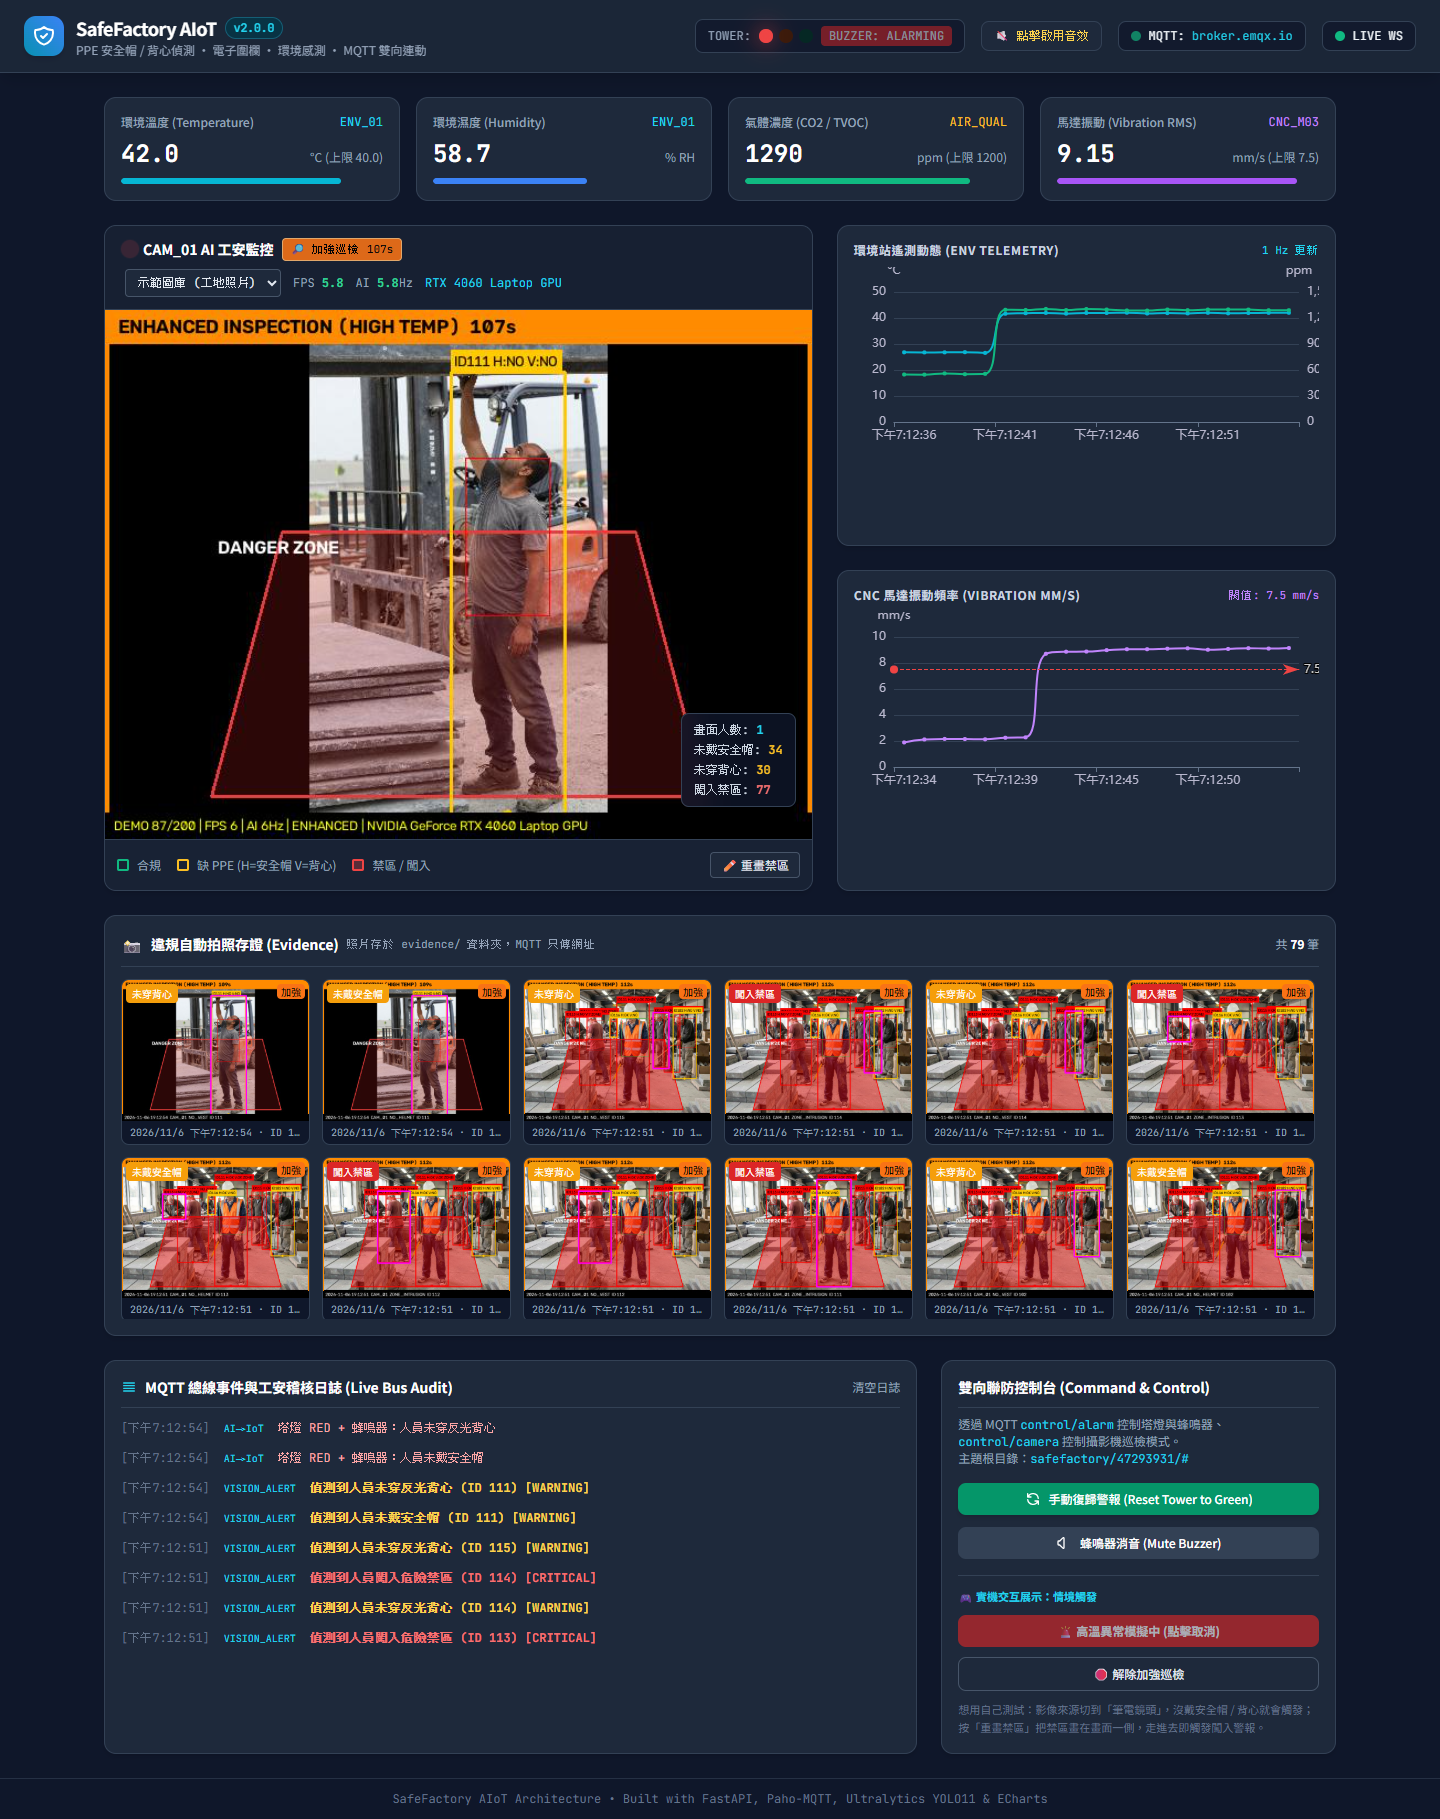
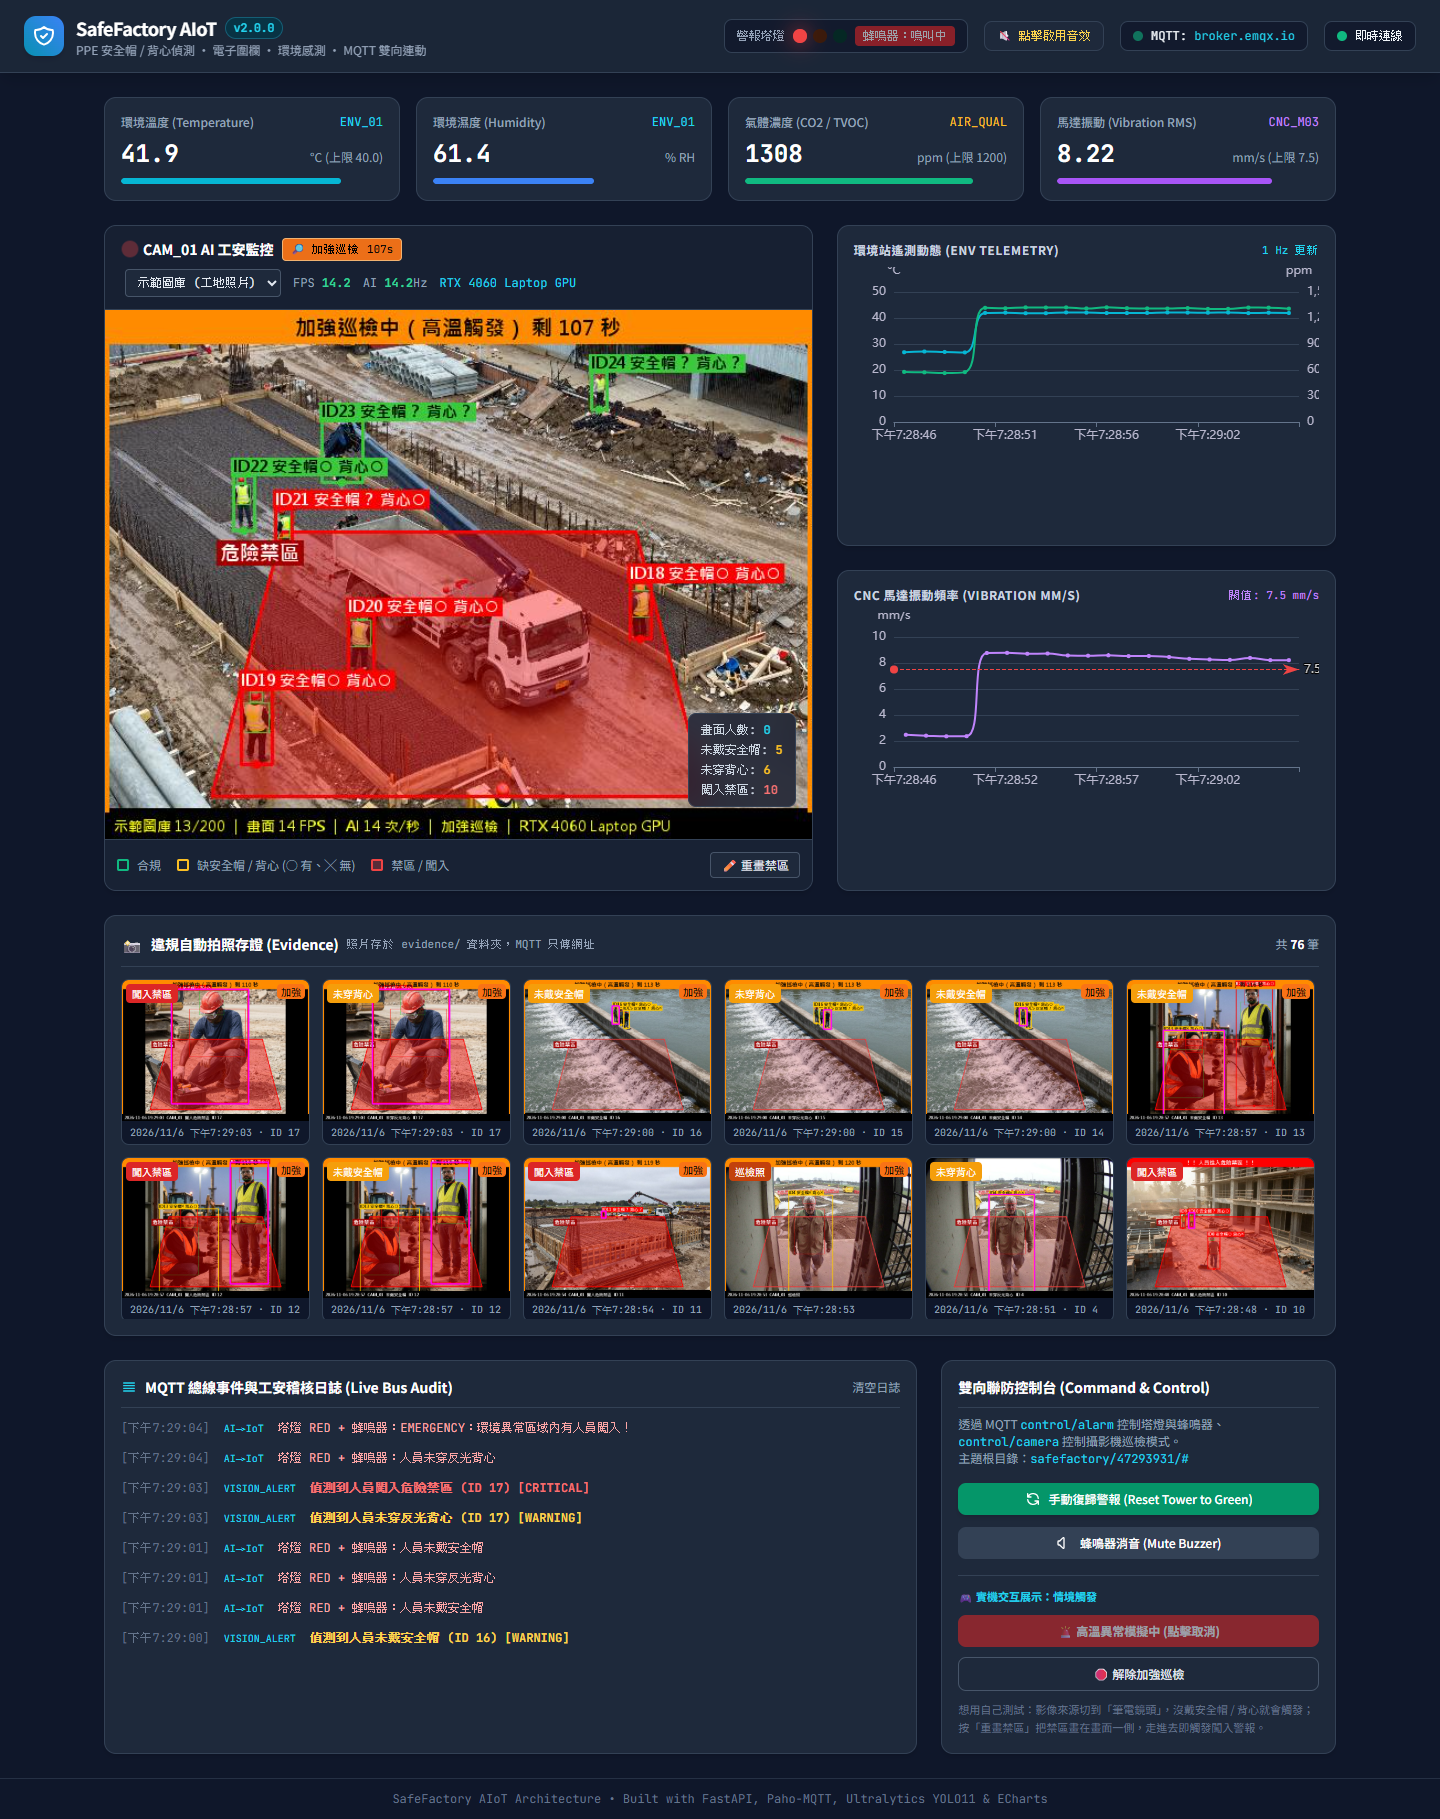
影像標籤與儀表板改為中文
- 新增 backend/text_render.py：用 Pillow + 微軟正黑體繪製中文 (OpenCV 不支援中文)
- 人員標籤改為「安全帽○ 背心╳」，橫幅、禁區、狀態列、存證浮水印全部中文化
- 紅底標籤改白字，並移除重複的「禁區」字樣，人多時較不重疊
- 讀寫圖片改用 numpy + imdecode / tofile，路徑含中文也能正常運作
- 儀表板頂部狀態列中文化，README 範例圖片更新為中文標籤版本

diff --git a/frontend/index.html b/frontend/index.html
@@ -80,14 +80,14 @@
         <div class="flex items-center space-x-4 mt-2 sm:mt-0">
             <!-- 實體警報塔燈 (3 色模擬) -->
             <div class="flex items-center bg-slate-900/80 px-3 py-1.5 rounded-lg border border-borderBg space-x-2">
-                <span class="text-xs text-slate-400 font-mono">TOWER:</span>
+                <span class="text-xs text-slate-400 font-mono">警報塔燈</span>
                 <div class="flex space-x-1.5 items-center">
                     <div id="tower-red" class="w-3.5 h-3.5 rounded-full bg-red-950/80 transition-all duration-300"></div>
                     <div id="tower-yellow" class="w-3.5 h-3.5 rounded-full bg-amber-950/80 transition-all duration-300"></div>
                     <div id="tower-green" class="w-3.5 h-3.5 rounded-full tower-green-active transition-all duration-300"></div>
                 </div>
                 <div id="buzzer-tag" class="text-xs px-2 py-0.5 rounded bg-slate-800 text-slate-400 font-mono">
-                    BUZZER: OFF
+                    蜂鳴器：關閉
                 </div>
             </div>
 
@@ -106,7 +106,7 @@
             <!-- WebSocket 即時連線 -->
             <div class="flex items-center space-x-2 px-3 py-1.5 bg-slate-900/80 rounded-lg border border-borderBg text-xs font-mono">
                 <div id="ws-dot" class="w-2.5 h-2.5 rounded-full bg-emerald-500"></div>
-                <span id="ws-status">LIVE WS</span>
+                <span id="ws-status">即時連線</span>
             </div>
         </div>
     </header>
@@ -224,7 +224,7 @@
                 <div class="p-3 bg-slate-900/40 border-t border-borderBg flex flex-wrap items-center justify-between gap-3 text-xs">
                     <div class="text-slate-400 flex flex-wrap items-center gap-2">
                         <span class="inline-block w-3 h-3 border-2 border-emerald-500 rounded-sm"></span><span>合規</span>
-                        <span class="inline-block w-3 h-3 border-2 border-amber-400 rounded-sm ml-2"></span><span>缺 PPE (H=安全帽 V=背心)</span>
+                        <span class="inline-block w-3 h-3 border-2 border-amber-400 rounded-sm ml-2"></span><span>缺安全帽 / 背心 (○ 有、╳ 無)</span>
                         <span class="inline-block w-3 h-3 bg-red-500/30 border-2 border-red-500 rounded-sm ml-2"></span><span>禁區 / 闖入</span>
                     </div>
                     <div id="zone-controls" class="flex items-center gap-2">
@@ -511,13 +511,13 @@
 
             ws.onopen = () => {
                 document.getElementById('ws-dot').className = 'w-2.5 h-2.5 rounded-full bg-emerald-500';
-                document.getElementById('ws-status').innerText = 'LIVE WS';
+                document.getElementById('ws-status').innerText = '即時連線';
                 addLog('SYSTEM', '系統與後端 WebSocket 握手成功');
             };
 
             ws.onclose = () => {
                 document.getElementById('ws-dot').className = 'w-2.5 h-2.5 rounded-full bg-red-500';
-                document.getElementById('ws-status').innerText = 'WS RECONNECTING';
+                document.getElementById('ws-status').innerText = '重新連線中';
                 setTimeout(connectWS, 2000);
             };
 
@@ -761,11 +761,11 @@
 
             if (buzzer) {
                 b.className = 'text-xs px-2 py-0.5 rounded bg-red-600 text-white font-mono animate-pulse';
-                b.innerText = 'BUZZER: ALARMING';
+                b.innerText = '蜂鳴器：鳴叫中';
                 startBuzzerAudio();
             } else {
                 b.className = 'text-xs px-2 py-0.5 rounded bg-slate-800 text-slate-400 font-mono';
-                b.innerText = 'BUZZER: OFF';
+                b.innerText = '蜂鳴器：關閉';
                 stopBuzzerAudio();
             }
         }

diff --git a/backend/vision_worker.py b/backend/vision_worker.py
@@ -28,6 +28,7 @@ import torch
 from ultralytics import YOLO
 from ultralytics.utils import SETTINGS
 
+from backend.text_render import TextLayer
 from backend.config import (
     ROOT_DIR,
     PERSON_MODEL,
@@ -60,6 +61,9 @@ EVENT_TEXT = {
     "ZONE_INTRUSION": ("CRITICAL", "偵測到人員闖入危險禁區"),
     "PATROL_SNAPSHOT": ("INFO", "加強巡檢自動拍照"),
 }
+EVENT_SHORT = {"NO_HELMET": "未戴安全帽", "NO_VEST": "未穿反光背心",
+               "ZONE_INTRUSION": "闖入危險禁區", "PATROL_SNAPSHOT": "巡檢照"}
+MARK = {"ok": "○", "missing": "╳", "unknown": "？"}  # 微軟正黑體沒有 ✓✗，用 ○╳ 表示有/無
 
 GREEN, YELLOW, RED, ORANGE, WHITE = (60, 200, 60), (0, 200, 255), (0, 0, 255), (0, 140, 255), (255, 255, 255)
 
@@ -73,6 +77,12 @@ def letterbox(frame: np.ndarray, w: int = VIDEO_WIDTH, h: int = VIDEO_HEIGHT) ->
     x, y = (w - nw) // 2, (h - nh) // 2
     out[y:y + nh, x:x + nw] = cv2.resize(frame, (nw, nh))
     return out
+
+
+def imread_unicode(path):
+    """cv2.imread 在 Windows 讀不到含中文的路徑，改用 numpy 讀檔再解碼。"""
+    data = np.fromfile(str(path), dtype=np.uint8)
+    return cv2.imdecode(data, cv2.IMREAD_COLOR) if data.size else None
 
 
 def demo_image_dir() -> Path:
@@ -117,8 +127,10 @@ class FrameSource:
     @property
     def label(self) -> str:
         if self.spec == "demo":
-            return f"DEMO {self.img_idx + 1}/{len(self.images)}"
-        return self.spec.upper()
+            return f"示範圖庫 {self.img_idx + 1}/{len(self.images)}"
+        if self.spec == "webcam":
+            return "筆電鏡頭"
+        return f"影片 {self.spec[5:]}"
 
     def read(self):
         if self.images:
@@ -126,7 +138,7 @@ class FrameSource:
             if self.current_img is None or now - self.img_since >= DEMO_IMAGE_SECONDS:
                 if self.current_img is not None:
                     self.img_idx = (self.img_idx + 1) % len(self.images)
-                img = cv2.imread(str(self.images[self.img_idx]))
+                img = imread_unicode(self.images[self.img_idx])
                 self.current_img = letterbox(img) if img is not None else None
                 self.img_since = now
             return None if self.current_img is None else self.current_img.copy()
@@ -345,6 +357,7 @@ class VisionWorker:
     # ---------------------------------------------------------
     def _draw(self, frame, people, ppe, source_label, now):
         out = frame.copy()
+        text = TextLayer()
         zone = self.zone_px()
         danger = any(p["in_zone"] for p in people)
 
@@ -353,7 +366,7 @@ class VisionWorker:
         cv2.addWeighted(overlay, 0.40 if danger else 0.22, out, 0.60 if danger else 0.78, 0, out)
         cv2.polylines(out, [zone], True, RED if danger else (60, 60, 230), 2)
         zx, zy = zone[:, 0].min(), zone[:, 1].min()
-        cv2.putText(out, "DANGER ZONE", (int(zx) + 6, int(zy) + 20), cv2.FONT_HERSHEY_SIMPLEX, 0.55, WHITE, 2)
+        text.add("危險禁區", (int(zx) + 8, int(zy) + 6), WHITE, 18, bg=(0, 0, 160))
 
         for name, _, _, (x1, y1, x2, y2) in ppe:
             if name in ("helmet", "vest", "no_helmet", "no_vest"):
@@ -366,31 +379,28 @@ class VisionWorker:
             color = RED if p["in_zone"] else (YELLOW if bad else GREEN)
             cv2.rectangle(out, (x1, y1), (x2, y2), color, 2)
             cv2.circle(out, p["foot"], 4, color, -1)
-            tag = {"ok": "OK", "missing": "NO", "unknown": "?"}
-            label = f"ID{p['tid']}" if p["tid"] >= 0 else "new"
+            label = f"ID{p['tid']}" if p["tid"] >= 0 else "新目標"
             if self.ppe_model is not None:
-                label += f" H:{tag[p['helmet']]} V:{tag[p['vest']]}"
-            if p["in_zone"]:
-                label += " ZONE!"
-            (tw, th), _ = cv2.getTextSize(label, cv2.FONT_HERSHEY_SIMPLEX, 0.45, 1)
-            cv2.rectangle(out, (x1, max(y1 - th - 8, 0)), (x1 + tw + 6, max(y1, th + 8)), color, -1)
-            cv2.putText(out, label, (x1 + 3, max(y1 - 5, th + 3)), cv2.FONT_HERSHEY_SIMPLEX, 0.45, (0, 0, 0), 1)
+                label += f" 安全帽{MARK[p['helmet']]} 背心{MARK[p['vest']]}"
+            # 紅框本身就代表在禁區內，標籤不再重複，保持精簡避免人多時互相重疊
+            fg = WHITE if p["in_zone"] else (0, 0, 0)  # 紅底配白字、黃/綠底配黑字
+            text.add(label, (x1, max(y1 - 2, 18)), fg, 14, bg=color, pad=2, anchor="lb")
 
         # 加強巡檢：橘色外框 + 倒數
         if self.mode == "enhanced":
             cv2.rectangle(out, (0, 0), (VIDEO_WIDTH - 1, VIDEO_HEIGHT - 1), ORANGE, 6)
             remain = max(0, int(self.enhanced_until - now))
             cv2.rectangle(out, (0, 0), (VIDEO_WIDTH, 30), ORANGE, -1)
-            cv2.putText(out, f"ENHANCED INSPECTION (HIGH TEMP)  {remain}s", (12, 21),
-                        cv2.FONT_HERSHEY_SIMPLEX, 0.6, (0, 0, 0), 2)
+            text.add(f"加強巡檢中（高溫觸發） 剩 {remain} 秒", (VIDEO_WIDTH // 2, 15), (0, 0, 0), 19, anchor="mm")
         elif danger:
             cv2.rectangle(out, (0, 0), (VIDEO_WIDTH, 30), RED, -1)
-            cv2.putText(out, "!!! WORKER IN DANGER ZONE !!!", (150, 21), cv2.FONT_HERSHEY_SIMPLEX, 0.6, WHITE, 2)
+            text.add("！！ 人員進入危險禁區 ！！", (VIDEO_WIDTH // 2, 15), WHITE, 19, anchor="mm")
 
-        hud = f"{source_label} | FPS {self.fps:.0f} | AI {self.infer_fps:.0f}Hz | {self.mode.upper()} | {self.device_name}"
+        mode = "加強巡檢" if self.mode == "enhanced" else "一般巡檢"
+        hud = f"{source_label} ｜ 畫面 {self.fps:.0f} FPS ｜ AI {self.infer_fps:.0f} 次/秒 ｜ {mode} ｜ {self.device_name.replace('NVIDIA GeForce ', '')}"
         cv2.rectangle(out, (0, VIDEO_HEIGHT - 24), (VIDEO_WIDTH, VIDEO_HEIGHT), (0, 0, 0), -1)
-        cv2.putText(out, hud, (8, VIDEO_HEIGHT - 8), cv2.FONT_HERSHEY_SIMPLEX, 0.42, (0, 255, 255), 1)
-        return out, danger
+        text.add(hud, (8, VIDEO_HEIGHT - 12), (0, 255, 255), 13, anchor="lm")
+        return text.render(out), danger
 
     # ---------------------------------------------------------
     # 存證與事件
@@ -420,10 +430,14 @@ class VisionWorker:
             x1, y1, x2, y2 = person["box"]
             cv2.rectangle(img, (x1 - 3, y1 - 3), (x2 + 3, y2 + 3), (255, 0, 255), 3)
         # 底部 HUD 列換成存證浮水印 (黑底白字，不和畫面其他文字重疊)
-        stamp = now.strftime("%Y-%m-%d %H:%M:%S") + f"  CAM_01  {event}" + (f"  ID {tid}" if tid is not None else "")
+        stamp = now.strftime("%Y-%m-%d %H:%M:%S") + f"  CAM_01  {EVENT_SHORT[event]}" + (f"  ID {tid}" if tid is not None else "")
         cv2.rectangle(img, (0, VIDEO_HEIGHT - 24), (VIDEO_WIDTH, VIDEO_HEIGHT), (0, 0, 0), -1)
-        cv2.putText(img, stamp, (8, VIDEO_HEIGHT - 7), cv2.FONT_HERSHEY_SIMPLEX, 0.5, WHITE, 1, cv2.LINE_AA)
-        cv2.imwrite(str(folder / name), img, [cv2.IMWRITE_JPEG_QUALITY, 88])
+        layer = TextLayer()
+        layer.add(stamp, (8, VIDEO_HEIGHT - 12), WHITE, 14, anchor="lm")
+        img = layer.render(img)
+        ok, buf = cv2.imencode(".jpg", img, [cv2.IMWRITE_JPEG_QUALITY, 88])
+        if ok:
+            buf.tofile(str(folder / name))  # 用 tofile 寫檔，路徑含中文也沒問題
 
         severity, message = EVENT_TEXT[event]
         record = {
@@ -467,10 +481,11 @@ class VisionWorker:
 
     def _no_signal(self):
         img = np.zeros((VIDEO_HEIGHT, VIDEO_WIDTH, 3), np.uint8)
-        cv2.putText(img, "NO SIGNAL", (215, 230), cv2.FONT_HERSHEY_SIMPLEX, 1.2, (80, 80, 255), 3)
-        cv2.putText(img, self.source_error[:70].encode("ascii", "ignore").decode(), (20, 280),
-                    cv2.FONT_HERSHEY_SIMPLEX, 0.45, (200, 200, 200), 1)
-        return img
+        layer = TextLayer()
+        layer.add("無影像訊號", (VIDEO_WIDTH // 2, 220), (80, 80, 255), 36, anchor="mm")
+        layer.add(self.source_error[:45], (VIDEO_WIDTH // 2, 275), (200, 200, 200), 15, anchor="mm")
+        layer.add("請在右上角切換影像來源", (VIDEO_WIDTH // 2, 305), (200, 200, 200), 15, anchor="mm")
+        return layer.render(img)
 
     def run_inference(self):
         src = self._open_source(self.source_spec)

diff --git a/backend/text_render.py b/backend/text_render.py
@@ -1,0 +1,61 @@
+"""
+中文文字繪製 (Chinese Text Renderer)
+
+OpenCV 的 cv2.putText 只支援英文字，中文會變成問號。
+這裡改用 Pillow + 系統中文字型繪製：每一幀先把要寫的字收集起來，
+最後一次轉成 Pillow 影像畫完再轉回 OpenCV，避免反覆轉換拖慢速度。
+"""
+
+import os
+from functools import lru_cache
+
+import numpy as np
+from PIL import Image, ImageDraw, ImageFont
+
+# 依序嘗試：Windows 微軟正黑體 → macOS 蘋方 → Linux Noto CJK
+FONT_CANDIDATES = [
+    r"C:\Windows\Fonts\msjhbd.ttc",
+    r"C:\Windows\Fonts\msjh.ttc",
+    "/System/Library/Fonts/PingFang.ttc",
+    "/usr/share/fonts/opentype/noto/NotoSansCJK-Bold.ttc",
+    "/usr/share/fonts/opentype/noto/NotoSansCJK-Regular.ttc",
+]
+
+
+@lru_cache(maxsize=16)
+def get_font(size: int):
+    for path in FONT_CANDIDATES:
+        if os.path.exists(path):
+            return ImageFont.truetype(path, size)
+    return ImageFont.load_default(size)  # 找不到中文字型時退回預設字型 (中文會顯示不出來)
+
+
+def bgr2rgb(c):
+    return (c[2], c[1], c[0])
+
+
+class TextLayer:
+    """收集一幀要寫的文字，最後 render() 一次畫上去。"""
+
+    def __init__(self):
+        self.items = []
+
+    def add(self, text, xy, color=(255, 255, 255), size=16, bg=None, pad=3, anchor="la"):
+        """
+        xy：文字位置；anchor 用 Pillow 規則 (la=左上、lb=左下、mm=置中)
+        bg：背景色 (BGR)，有給就會先畫一塊底色，讓字在任何畫面上都清楚
+        """
+        self.items.append((text, xy, color, size, bg, pad, anchor))
+
+    def render(self, img: np.ndarray) -> np.ndarray:
+        if not self.items:
+            return img
+        pil = Image.fromarray(img[:, :, ::-1])
+        draw = ImageDraw.Draw(pil)
+        for text, (x, y), color, size, bg, pad, anchor in self.items:
+            font = get_font(size)
+            if bg is not None:
+                l, t, r, b = draw.textbbox((x, y), text, font=font, anchor=anchor)
+                draw.rectangle((l - pad, t - pad, r + pad, b + pad), fill=bgr2rgb(bg))
+            draw.text((x, y), text, font=font, fill=bgr2rgb(color), anchor=anchor)
+        return np.asarray(pil)[:, :, ::-1].copy()

diff --git a/README.md b/README.md
@@ -26,9 +26,11 @@
 | 未戴安全帽 | 闖入危險禁區 | 未穿反光背心 |
 |---|---|---|
 | ![未戴安全帽](docs/images/evidence_no_helmet.jpg) | ![闖入危險禁區](docs/images/evidence_zone.jpg) | ![未穿反光背心](docs/images/evidence_no_vest.jpg) |
-| 有背心、護目鏡，但沒戴安全帽 → `H:NO V:OK` | 人員裝備齊全，但腳踩進紅色禁區 → `ZONE!` | 有戴安全帽，但背心不是反光款 → `V:NO` |
+| 有穿背心，但沒戴安全帽 → `安全帽╳ 背心○` | 其他人在禁區外 (綠框)，ID18 腳踩進禁區 (紅框) | 左邊的人有安全帽、沒穿背心；右邊同事裝備齊全 |
 
-框線顏色：**綠色** 合規、**黃色** 缺 PPE、**紅色** 在禁區內、**粉紅色** 為本次觸發存證的人員。照片底部浮水印記錄時間、攝影機與違規類型。
+標籤 `○` 代表有、`╳` 代表沒有、`？` 代表人太小看不清楚。框線顏色：**綠色** 合規、**黃色** 缺安全帽或背心、**紅色** 在禁區內、**粉紅色** 為本次觸發存證的人員。照片底部浮水印記錄時間、攝影機與違規類型。
+
+> 畫面文字使用 Pillow + 微軟正黑體繪製 (OpenCV 原生不支援中文)，見 `backend/text_render.py`。
 
 > 範例照片來自 [Ultralytics Construction-PPE 資料集](https://docs.ultralytics.com/datasets/detect/construction-ppe/) 的驗證集 (CC BY 4.0)，模型訓練時沒有看過這些照片。
 
